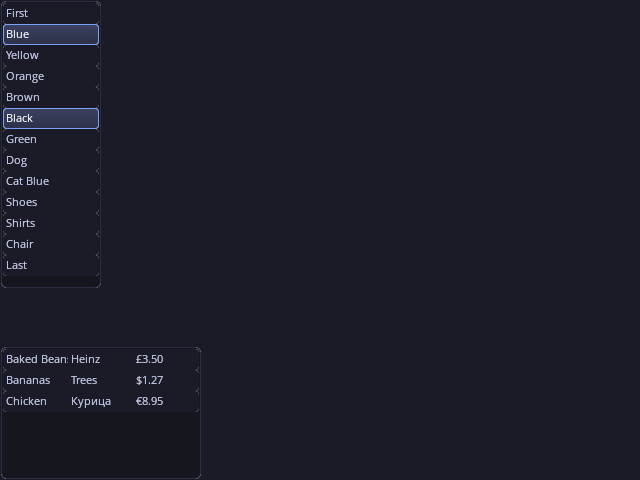
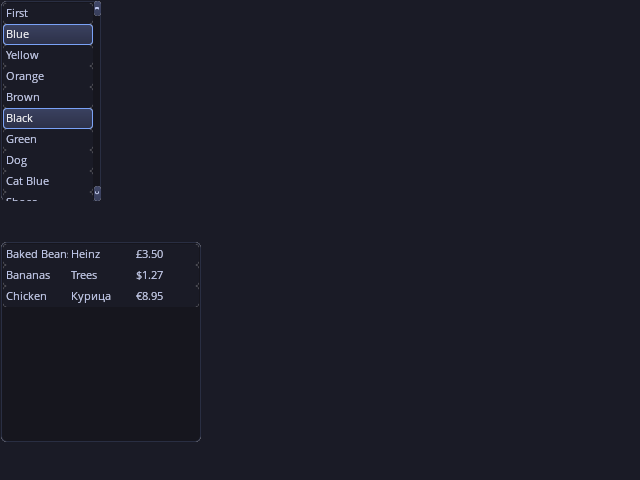
A requested size caps a ScrollControl; menus stop asking for a height
ScrollControl::calculateSize reported its content as its preferred size,
so under the default Expand a ListBox asked for 100x200 with 13 rows was
laid out max(r, p) = 100x287, never showed a bar and never scrolled. On an
axis with a size request the request is now the preferred size (through
preferredFromContent, so the flags still apply): the outer size, the bars
inside it, the content scrolled. With no request it is still the content.

The library's own incidental requests would have become caps:
- Menu's ctor setBounds(0, 0, 10, 10) (every menu 10 tall): dropped, it
  was the initial bounds anyway.
- Menu::onAddItem's setSize(w, getHeight()): setWidth(w).
- ComboBox::openList's setBounds(..., m_menu->getHeight()): setPos +
  setWidth.
- MenuStrip keeps its 200x22 (in a layout cell no height request would
  fill the cell, 22 would clip its 29-high items) and opts out through
  the new ScrollControl::sizedByRequest(): a strip never scrolls, so its
  request stays the least it gets.

TreeControl, the Demo's Output ListBox and its left CollapsibleList make
no requests; ColorSelector's 256x180 is wider than its picker, so it lays
out as before. ListBoxDemo and the hero page's CollapsibleList (both ask
for 100x200) now keep their size and show a bar: docs/images regenerated.
An empty ComboBox's list is now its 4-unit padding high, not the stale 10.

diff --git a/tests/unit/scrollControl.cpp b/tests/unit/scrollControl.cpp
@@ -11,6 +11,7 @@
 #include "headlessFixture.h"
 
 #include <gweni/controls/scrollControl.h>
+#include <gweni/controls/layout/layout.h>
 
 #include <doctest/doctest.h>
 
@@ -218,4 +219,136 @@ TEST_CASE("a row added by app code is picked up by the next frame")
     CHECK_FALSE(scene.verticalBar->hidden());
     CHECK(scene.inner->getHeight() == 400);
     CHECK(scene.frame().passes == 0);
+}
+
+// A size the app asked for is the ScrollControl's outer size: the bars go
+// inside it and the content scrolls. With no request it is its content.
+
+TEST_CASE("a requested size smaller than the content caps a ScrollControl in a Base parent")
+{
+    Scene scene;
+    scene.scroll->setDock(DockPosition::None);
+    scene.scroll->setBounds(10, 20, 100, 80);
+    Block *row=scene.addRow(50, 200);
+    scene.settle();
+
+    CHECK(scene.scroll->getX() == 10);
+    CHECK(scene.scroll->getY() == 20);
+    CHECK(scene.scroll->getWidth() == 100);
+    CHECK(scene.scroll->getHeight() == 80);
+
+    // the vertical bar shows, enabled, inside the requested size
+    REQUIRE_FALSE(scene.verticalBar->hidden());
+    CHECK(scene.verticalBar->visible());
+    CHECK_FALSE(scene.verticalBar->isDisabled());
+    const int barWidth=scene.verticalBar->getWidth();
+    CHECK(scene.verticalBar->getX() == 100-barWidth);
+    CHECK(scene.verticalBar->getHeight() == 80);
+    // 50 wide fits beside it: no horizontal bar
+    CHECK(scene.horizontalBar->hidden());
+    // the inner panel holds all of the content, to scroll it
+    CHECK(scene.inner->getHeight() == 200);
+    CHECK(row->getHeight() == 200);
+    CHECK(scene.frame().passes == 0);
+
+    // content that fits: still the requested size, and no bar
+    row->want=Size(50, 40);
+    row->invalidate();
+    scene.settle();
+    CHECK(scene.scroll->getWidth() == 100);
+    CHECK(scene.scroll->getHeight() == 80);
+    CHECK(scene.verticalBar->hidden());
+}
+
+TEST_CASE("a requested size smaller than the content caps a ScrollControl in a layout cell")
+{
+    Scene scene;
+    controls::Base *panel=scene.canvas->newChild<controls::Base>("panel");
+    panel->setDock(DockPosition::Center);
+    panel->setLayout(new controls::VerticalLayout());
+    scene.scroll->setDock(DockPosition::None);
+    scene.scroll->setParent(panel);
+    scene.scroll->setBounds(0, 0, 100, 200);
+    scene.addRow(40, 500);
+    scene.settle();
+
+    // the request, not the 500 tall content
+    CHECK(scene.scroll->getWidth() == 100);
+    CHECK(scene.scroll->getHeight() == 200);
+    REQUIRE_FALSE(scene.verticalBar->hidden());
+    CHECK_FALSE(scene.verticalBar->isDisabled());
+    CHECK(scene.verticalBar->getHeight() == 200);
+    CHECK(scene.horizontalBar->hidden());
+
+    // a larger cell does not stretch it either
+    scene.canvas->setSize(640, 480);
+    scene.settle();
+    CHECK(scene.scroll->getWidth() == 100);
+    CHECK(scene.scroll->getHeight() == 200);
+    CHECK_FALSE(scene.verticalBar->hidden());
+}
+
+TEST_CASE("a ScrollControl with no requested size is its content's size")
+{
+    Scene scene;
+    scene.scroll->setDock(DockPosition::None);
+    scene.addRow(60, 70);
+    scene.settle();
+
+    CHECK_FALSE(scene.scroll->hasRequestedSize(Dim::X));
+    CHECK_FALSE(scene.scroll->hasRequestedSize(Dim::Y));
+    // the row and the inner panel's 5 unit margins
+    CHECK(scene.scroll->getWidth() == 60+10);
+    CHECK(scene.scroll->getHeight() == 70+10);
+    CHECK(scene.verticalBar->hidden());
+    CHECK(scene.horizontalBar->hidden());
+}
+
+TEST_CASE("a requested height caps only the height")
+{
+    Scene scene;
+    scene.scroll->setDock(DockPosition::None);
+    scene.scroll->setScroll(false, true);
+    scene.scroll->setHeight(60);
+    scene.addRow(80, 200);
+    scene.settle();
+
+    // as wide as its content, as high as asked
+    CHECK(scene.scroll->getWidth() == 80+10);
+    CHECK(scene.scroll->getHeight() == 60);
+    CHECK_FALSE(scene.verticalBar->hidden());
+}
+
+TEST_CASE("setScroll turns an axis off even when its content overflows the requested size")
+{
+    SUBCASE("vertical only")
+    {
+        Scene scene;
+        scene.scroll->setDock(DockPosition::None);
+        scene.scroll->setScroll(false, true);
+        scene.scroll->setBounds(0, 0, 100, 80);
+        scene.addRow(300, 200);
+        scene.settle();
+
+        CHECK(scene.scroll->getWidth() == 100);
+        CHECK(scene.scroll->getHeight() == 80);
+        CHECK_FALSE(scene.verticalBar->hidden());
+        CHECK(scene.horizontalBar->hidden());
+    }
+
+    SUBCASE("horizontal only")
+    {
+        Scene scene;
+        scene.scroll->setDock(DockPosition::None);
+        scene.scroll->setScroll(true, false);
+        scene.scroll->setBounds(0, 0, 100, 80);
+        scene.addRow(300, 200);
+        scene.settle();
+
+        CHECK(scene.scroll->getWidth() == 100);
+        CHECK(scene.scroll->getHeight() == 80);
+        CHECK(scene.verticalBar->hidden());
+        CHECK_FALSE(scene.horizontalBar->hidden());
+        CHECK_FALSE(scene.horizontalBar->isDisabled());
+    }
 }

diff --git a/tests/unit/requestedSize.cpp b/tests/unit/requestedSize.cpp
@@ -9,13 +9,21 @@
  *  shrinks back once what made it grow is gone, inside a Base parent and inside
  *  a layout, and a canvas resize and back gives the first bounds again. A
  *  layout child is sized from its cell minus its margin, clamped at 0.
+ *
+ *  A size request caps a ScrollControl, so the library's own menus ask for no
+ *  height: a Menu and a ComboBox's list are as high as their items.
  */
 #include "headlessFixture.h"
 
+#include <gweni/controls/comboBox.h>
 #include <gweni/controls/layout/layout.h>
+#include <gweni/controls/menu.h>
+#include <gweni/controls/menuItem.h>
+#include <gweni/controls/menuStrip.h>
 
 #include <doctest/doctest.h>
 
+#include <algorithm>
 #include <limits>
 #include <string>
 
@@ -520,4 +528,114 @@ TEST_CASE("a nested layout's size flag follows its child from Expand to Fixed, a
         CHECK(fresh.afterPos() == 52);
         CHECK(text(scene.after->getBounds()) == text(fresh.after->getBounds()));
     }
+}
+
+namespace
+{
+
+//! The sum of the item heights and the 2 unit padding a Menu gives its inner
+//! panel above and below them.
+int itemsHeight(controls::Menu *menu)
+{
+    int height=0;
+
+    for(controls::Base *item : menu->getChildren())
+        height+=item->getHeight();
+
+    return height+2+2;
+}
+
+controls::Menu *openMenuOf(controls::Canvas *canvas)
+{
+    for(controls::Base *child : canvas->getActualChildren())
+    {
+        auto *menu=dynamic_cast<controls::Menu *>(child);
+
+        if(menu && !menu->hidden())
+            return menu;
+    }
+    return nullptr;
+}
+
+}//namespace
+
+TEST_CASE("a Menu asks for no height and is as high as its items")
+{
+    Scene scene;
+    controls::Menu *menu=scene.canvas->newChild<controls::Menu>("menu");
+    menu->setPos(20, 30);
+    menu->addItem("One");
+    menu->addItem("Two");
+    menu->addItem("Three");
+    scene.settle();
+
+    CHECK_FALSE(menu->hasRequestedSize(Dim::Y));
+    CHECK(menu->getHeight() > 10);
+    CHECK(menu->getHeight() == itemsHeight(menu));
+    CHECK(menu->getX() == 20);
+    CHECK(menu->getY() == 30);
+
+    // more items: taller, and still no bar
+    menu->addItem("Four");
+    menu->addItem("Five");
+    scene.settle();
+    CHECK(menu->getHeight() == itemsHeight(menu));
+    CHECK(menu->getChildren().size() == 5);
+}
+
+TEST_CASE("a ComboBox's list fits its items each time it is opened")
+{
+    Scene scene;
+    controls::ComboBox *combo=scene.canvas->newChild<controls::ComboBox>("combo");
+    combo->setPos(10, 10);
+    combo->addItem("One");
+    combo->addItem("Two");
+    combo->addItem("Three");
+    scene.settle();
+
+    combo->openList();
+    scene.settle();
+    controls::Menu *menu=openMenuOf(scene.canvas);
+    REQUIRE(menu != nullptr);
+    CHECK_FALSE(menu->hasRequestedSize(Dim::Y));
+    CHECK(menu->getX() == combo->getX());
+    CHECK(menu->getY() == combo->getY()+combo->getHeight());
+    CHECK(menu->getWidth() == combo->getWidth());
+    const int threeItems=menu->getHeight();
+    CHECK(threeItems == itemsHeight(menu));
+
+    // opened again with more items, it grows to fit them
+    combo->closeList();
+    scene.settle();
+    combo->addItem("Four");
+    combo->addItem("Five");
+    combo->openList();
+    scene.settle();
+    CHECK(menu->getHeight() == itemsHeight(menu));
+    CHECK(menu->getHeight() > threeItems);
+
+    // and with fewer, it is not held at the height it had
+    combo->closeList();
+    scene.settle();
+    combo->clearItems();
+    combo->addItem("One");
+    combo->openList();
+    scene.settle();
+    CHECK(menu->getHeight() == itemsHeight(menu));
+    CHECK(menu->getHeight() < threeItems);
+}
+
+TEST_CASE("a MenuStrip in a layout is as high as its items, its 200x22 only the least it gets")
+{
+    Scene scene;
+    controls::Base *panel=scene.centerPanel();
+    panel->setLayout(new controls::VerticalLayout());
+    controls::MenuStrip *strip=panel->newChild<controls::MenuStrip>("strip");
+    controls::MenuItem *file=strip->addItem("File");
+    strip->addItem("Edit");
+    scene.settle();
+
+    // not the cell's 480, and not capped at the 22 it asked for
+    CHECK(strip->getHeight() == std::max(22, file->getHeight()));
+    CHECK(strip->getWidth() == 200);
 }

diff --git a/source/controls/scrollControl.cpp b/source/controls/scrollControl.cpp
@@ -108,10 +108,12 @@ bool ScrollControl::contentsAreDocked()
     return true;
 }
 
-// What a ScrollControl asks for is its content: the inner panel's preferred
-// size and margins. Neither the scroll position nor a bar an earlier pass
-// showed counts, so the size does not depend on earlier frames; a bar is only
-// shown when this control got less than that anyway.
+// On an axis the app asked a size for, a ScrollControl asks for that size: it
+// is the outer size, the bars go inside it, and content that does not fit is
+// scrolled. On an axis with no request it asks for its content: the inner
+// panel's preferred size and margins. Neither the scroll position nor a bar an
+// earlier pass showed counts, so the size does not depend on earlier frames;
+// placeContents() shows a bar when the control got less than its content.
 void ScrollControl::calculateSize(skin::Base *skin, Dim dim)
 {
     if(!m_innerPanel)
@@ -140,13 +142,14 @@ void ScrollControl::calculateSize(skin::Base *skin, Dim dim)
 
     const Size &content=m_innerPanel->getPreferredSize();
     const Margin &margin=m_innerPanel->getMargin();
+    const Rect &requested=getRequestedBounds();
 
     if(dim == Dim::X)
-        m_preferredSize.width=preferredFromContent(content.width+margin.left+margin.right
-            +m_padding.left+m_padding.right, Dim::X);
+        m_preferredSize.width=preferredFromContent(sizedByRequest(Dim::X)?requested.w:
+            content.width+margin.left+margin.right+m_padding.left+m_padding.right, Dim::X);
     else
-        m_preferredSize.height=preferredFromContent(content.height+margin.top+margin.bottom
-            +m_padding.top+m_padding.bottom, Dim::Y);
+        m_preferredSize.height=preferredFromContent(sizedByRequest(Dim::Y)?requested.h:
+            content.height+margin.top+margin.bottom+m_padding.top+m_padding.bottom, Dim::Y);
 }
 
 // Whether a bar shows depends on this control's height, which its parent only

diff --git a/source/controls/menu.cpp b/source/controls/menu.cpp
@@ -27,7 +27,6 @@ bool samePoint(const Point &a, const Point &b)
 
 GWENI_CONTROL_CONSTRUCTOR(Menu)
 {
-    setBounds(0, 0, 10, 10);
     // The padding is the inner panel's: ScrollControl places the inner panel
     // over its whole area, so the items sit inside the backdrop's border only
     // when the panel keeps them off it. Its margin would be counted in the
@@ -135,7 +134,9 @@ void Menu::onAddItem(MenuItem *item)
     // Do this here - after Top Docking these values mean nothing in layout
     const int w=std::max(item->getWidth()+10+32, getWidth());
 
-    setSize(w, getHeight());
+    // The width only: a height asked for would cap the menu (ScrollControl),
+    // which is as high as its items.
+    setWidth(w);
 }
 
 void Menu::clearItems()

diff --git a/include/gweni/controls/scrollControl.h b/include/gweni/controls/scrollControl.h
@@ -80,6 +80,13 @@ protected:
 
     virtual bool contentsAreDocked();
 
+    //! Whether a size asked for on this axis is the size this control asks
+    //! for, the bars inside it and the content scrolled (see calculateSize).
+    //! With no request it asks for its content. A subclass that never scrolls
+    //! its content on an axis returns false to ask for the content there, a
+    //! request then only being the least it is given.
+    virtual bool sizedByRequest(Dim dim) const { return hasRequestedSize(dim); }
+
     //! Decides which bars show and sizes the inner panel and the bars for this
     //! control's current size, before any of them is laid out. See arrange().
     void placeContents();

diff --git a/source/controls/comboBox.cpp b/source/controls/comboBox.cpp
@@ -205,7 +205,10 @@ void ComboBox::openList()
     m_menu->setHidden(false);
     m_menu->bringToFront();
     gweni::Point p=localPosToCanvas(gweni::Point(0, 0));
-    m_menu->setBounds(gweni::Rect(p.x, p.y+getHeight(), getWidth(), m_menu->getHeight()));
+    // Its position and width, never a height: a height asked for would cap
+    // the list (ScrollControl), which is as high as its items.
+    m_menu->setPos(p.x, p.y+getHeight());
+    m_menu->setWidth(getWidth());
 }
 
 void ComboBox::closeList()

diff --git a/include/gweni/controls/menuStrip.h b/include/gweni/controls/menuStrip.h
@@ -30,6 +30,9 @@ public:
 protected:
 
     void onAddItem(MenuItem *item) override;
+    //! A strip is as wide and as high as its items and never scrolls them: its
+    //! size request (200x22) is only the least it is given.
+    bool sizedByRequest(Dim /*dim*/) const override { return false; }
     bool shouldHoverOpenMenu() override;
     void close() override {}
 

diff --git a/docs/layout.md b/docs/layout.md
@@ -67,6 +67,17 @@ with a request bigger than its content is cut to the content, and a Fixed one
 takes its own size and the next child starts after it and its margins. Use
 Fixed for "exactly this size" in a layout (ButtonDemo's 20x20 button).
 
+A ScrollControl (ListBox, CollapsibleList, Menu, ...) takes p from its request
+on an axis where a size was asked: the request is its outer size, the bars go
+inside it and the content scrolls. Expand then gives r in a Base parent and
+min(r, c) in a cell, and `placeContents()` shows the bar when the content does
+not fit. On an axis with no request p is its content. So a 100x200 ListBox of
+13 rows is 100x200 with a bar, and code that sizes a ScrollControl
+incidentally must not ask for the axis it means to grow along: a Menu asks for
+no height (a ComboBox opening its list sets the position and width only). A
+subclass that never scrolls an axis opts out with `sizedByRequest()`: a
+MenuStrip is as high as its items, its 200x22 only the least it gets.
+
 Docked children keep the size their dock gives them.
 
 ## Placing a dock-None control
